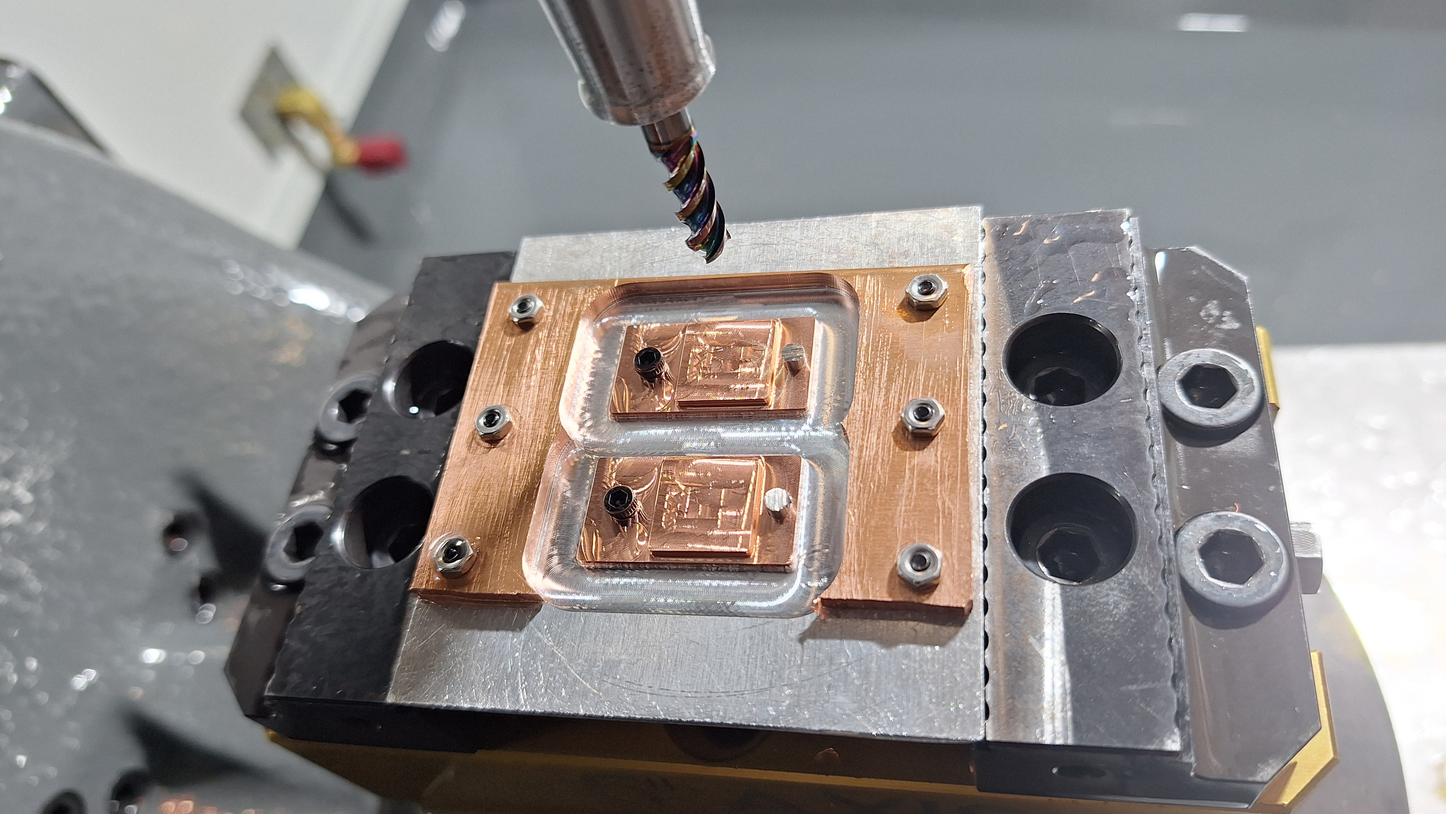
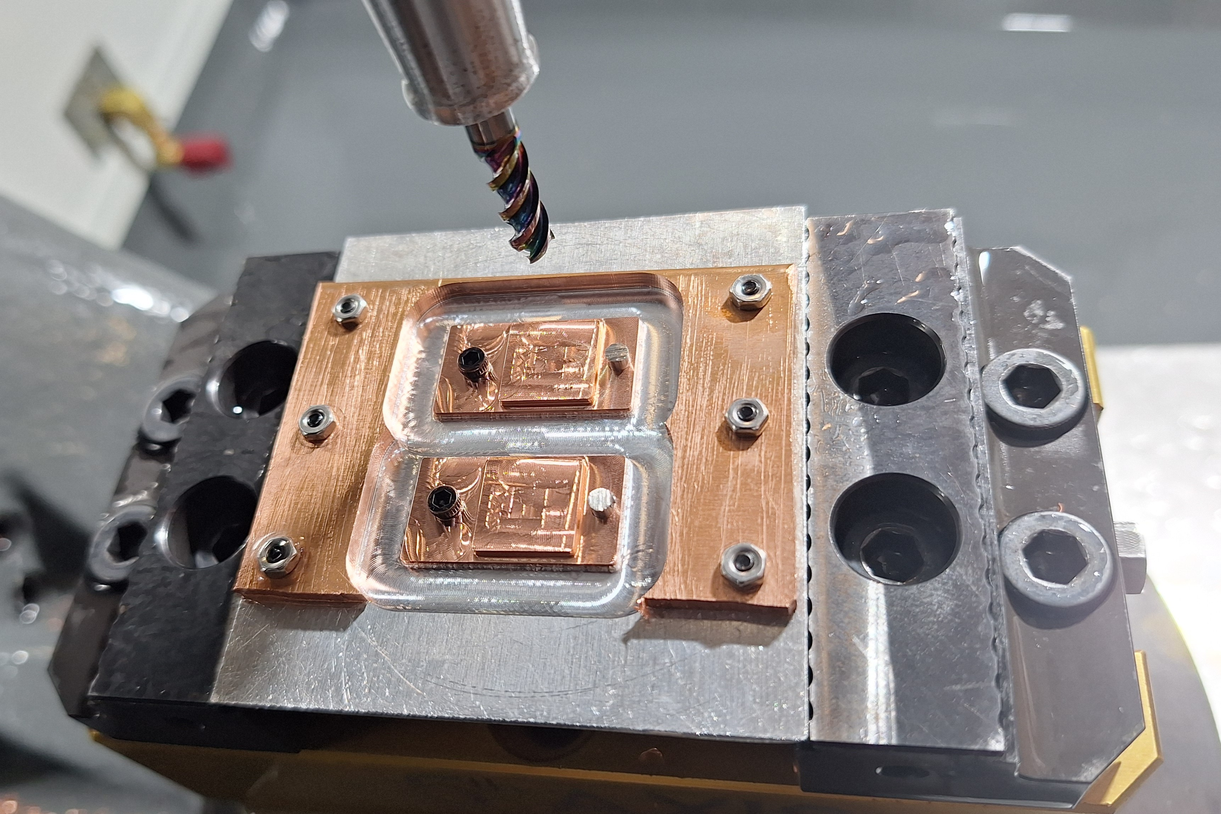
cnc

diff --git a/CNC.md b/CNC.md
@@ -5,8 +5,8 @@ permalink: /cnc
 ---
 
 # CNC machining
-<div class="clearfix">
-    <video autoplay muted loop playsinline controls src="/sebsite/images/redback/laser cutting.mp4" class="rightfloat"></video> 
+<div class="clearfix"> 
+    <img src="/sebsite/images/CNC/motor_mount.jpg" class="rightfloat">
     <p class="leftfloat">I learnt CNC machining in 2020 and it has become one of my most valuable skills! CNC machining is a computer controlled process where a cutting tool moves through solid material to cut out the programed part. I started machining wood on routers, and have progressed up to machining tool steels on a 5-axis mill and turning bearing shafts on a CNC lathe. I have machined parts for many personal projects, <a href="/sebsite/redback">Redback Racing</a>, my thesis, and <a href="/sebsite/Machinistchess">chess board</a>. </p>
     <p class="leftfloat">I work at UNSW designing and making parts for researchers, which has greatly expanded my skills! Researchers always seem to want massive or tiny parts and they often have unusual material requirements. The largest part was bigger than the working volume of the machine and required rotating halfway and the <a href="/sebsite/letterpunches">most detailed parts</a> required 0.2mm endmills, which is the size of 2-3 human hairs. I have machined materials including rubber, tool steel, teflon, and foam.</p>
 </div>
@@ -16,17 +16,24 @@ permalink: /cnc
     <p class="rightfloat">I also enjoy teaching CNC machining to students at the Kirby Makerspace where I run machine inductions for our Tormach, Symbiosis and HAAS 3- and 5-axis machines. I wrote the <a href="https://www.making.unsw.edu.au/learn/haas-5-axis-32-induction/" target="_blank">CNC inductions</a> for several machines: students have to program a part designed to teach them about different toolpath strategies. I also got to write the advanced learning material for students which covers <a href="https://www.making.unsw.edu.au/learn/advanced-cnc-milling-feeds-and-speeds-and-more/" target="_blank">feed and speeds</a>, <a href="https://www.making.unsw.edu.au/learn/advanced-cnc-milling-probing/" target="_blank">probing</a>, <a href="https://www.making.unsw.edu.au/learn/advanced-cnc-milling-tooling/" target="_blank">tooling</a> and other <a href="https://www.making.unsw.edu.au/learn/advanced-cnc-milling-machinist-essentials/" target="_blank">essential knowledge</a> in depth.</p> 
 </div>
 
+# PLA mold
+<div class="clearfix">
+    <video autoplay muted loop playsinline controls src="/sebsite/images/CNC/pla_mold.mp4" class="rightfloat"></video> 
+    <p class="leftfloat">I manufactured a large 6-piece mold for high temperature pressing of PLA composites sheets. The mold was so large that it barely fit into the machines available (which are pretty small). I was able to make the side panels on the 5-axis, which allowed me to drill holes and machine from 3 different directions at once.</p>
+    <p class="leftfloat">This was my first time using a high feed mill, and it worked perfectly. High feed mills change the shape of the chip which allow for a much faster feed rate.  They also alter the direction of the cutting force from horizontal to mostly vertical which reduces the bending force on the cutter.</p>
+</div>
+
 # Acrylic bearing mounts
 <div class="clearfix">
     <video autoplay muted loop playsinline controls src="/sebsite/images/CNC/acrylic reaming.mp4" class="rightfloat"></video> 
-    <p class="leftfloat">During a final year course at UNSW students design and make stirling engines where they make most of the simple parts, and I helped make the harder parts for them. They make acrylic bearing mounts, which get laser cut then I enlarged the bearing holes for a precise press fit. I also drilled and threaded side holes so that set screws could be used to fix some components in place.</p>
+    <p class="leftfloat">During a final year course at UNSW students design and make stirling engines where they make most of the simple parts, and I helped make the harder parts for them. I made this video to show them the manufacturing process their parts go through. The students design acrylic bearing mounts, which get laser cut then I enlarged the bearing holes for a precise press fit. I also drilled and threaded side holes so that set screws could be used to fix some components in place.</p>
 </div>
 
 # Grand Teton
 <p class="leftfloat">The Grand Teton is a mountain in Wyoming where I used to live.</p>
 <div class="clearfix">
     <img alt="Grand Teton" src="/sebsite/images/teton.jpg" class="leftfloat">
-    <iframe class="rightfloat" style="style="aspect-ratio: 3 / 2; max-height: 300px;" src="https://gmail1265769.autodesk360.com/shares/public/SH919a0QTf3c32634dcf815c514eef38cdc0?mode=embed" class="viewer3d" allowfullscreen="true" webkitallowfullscreen="true" mozallowfullscreen="true"  frameborder="0"></iframe>
+    <iframe class="rightfloat" style="aspect-ratio: 3 / 2; max-height: 300px;" src="https://gmail1265769.autodesk360.com/shares/public/SH919a0QTf3c32634dcf815c514eef38cdc0?mode=embed" class="viewer3d" allowfullscreen="true" webkitallowfullscreen="true" mozallowfullscreen="true"  frameborder="0"></iframe>
     
 </div>
 
@@ -77,11 +84,15 @@ permalink: /cnc
         <figcaption>Vice modification</figcaption>
     </figure>
     <figure class="gallery__item">
+        <img src="/sebsite/images/CNC/soft_jaws.jpg" class="gallery__img">
+        <figcaption>Soft jaws</figcaption>
+    </figure>
+    <figure class="gallery__item">
         <img src="/sebsite/images/CNC/heatsinks.jpg" class="gallery__img">
         <figcaption>Copper heatsinks</figcaption>
     </figure>
     <figure class="gallery__item">
-        <video autoplay muted loop playsinline controls src="/sebsite/images/CNC/tiny aly strips.mp4" class="gallery__img"></video> 
+        <video autoplay muted loop playsinline controls src="/sebsite/images/CNC/tiny aly strips.mp4" class="gallery__img" style="object-fit: cover;"></video> 
         <figcaption>Small aluminium strips</figcaption>
     </figure>
     <figure class="gallery__item">
@@ -92,7 +103,7 @@ permalink: /cnc
         <img alt="Marble run" src="/sebsite/images/marblerun.jpg" class="gallery__img">
         <figcaption>Marble run</figcaption>
     </figure>
-</div>
+</div> 
 
     <figure class="gallery__item">
         <img src="/sebsite/images/CNC/Blank.jpg" class="gallery__img">
